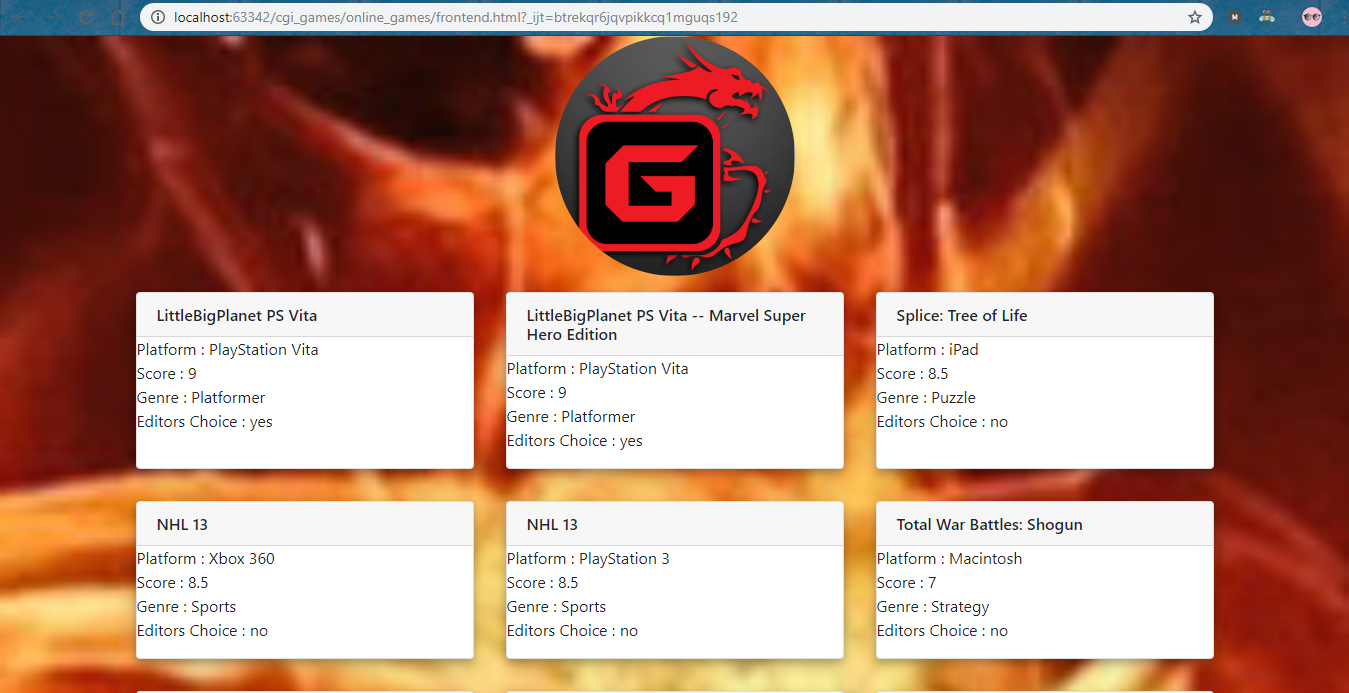
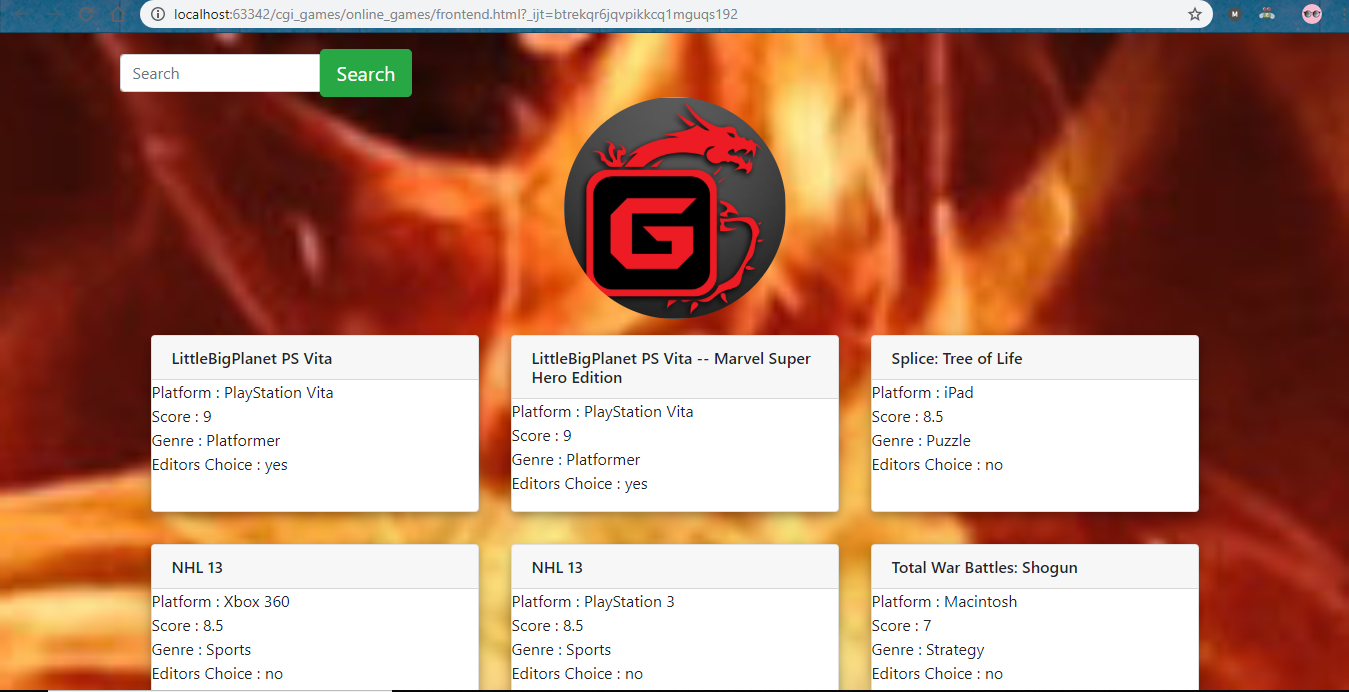
added search bar

Changed region(s): [[0.0, 0.0, 1.0, 1.0]]

diff --git a/online_games/frontend.html b/online_games/frontend.html
@@ -9,8 +9,48 @@
   </head>
 
   <body class="bg">
-    <div id="root"></div>
+  <nav class="navbar navbar-inverse navbar-fixed-top">
+
+  <div class="container">
+    <!-- all the navigation stuff -->
+  </div>
+</nav>
+
+<!-- main content -->
+<div class="section-main">
+  <div class="container" role="main">
+    <div class="row">
+
+      <div class="col-xs-12 col-md-6">
+        <form action="" method="GET" class="form-main  form-inline nofloat-xs pull-right pull-left-sm">
+
+          <div class="form-group form-input-fields form-group-lg has-feedback">
+
+            <label class="sr-only" for="search">Search</label>
+            <div class="input-group">
+              <input type="text" class="form-control input-search" name="q" id="search" placeholder="Search">
+              <span class="input-group-addon group-icon"> <span class="glyphicon glyphicon-user"></span>
+              </span>
+            </div>
+
+            <button type="submit" class="btn btn-lg btn-success btn-submit">
+            <span class="glyphicon glyphicon-search" aria-hidden="true"></span> Search
+            </button>
+
+
+          </div>
+
+
+        </form>
+      </div>
+    </div>
+
+   <div id="root"></div>
     <script src="scripts.js"></script>
+
+  </div>
+</div>
+
   </body>
 
 <style>
